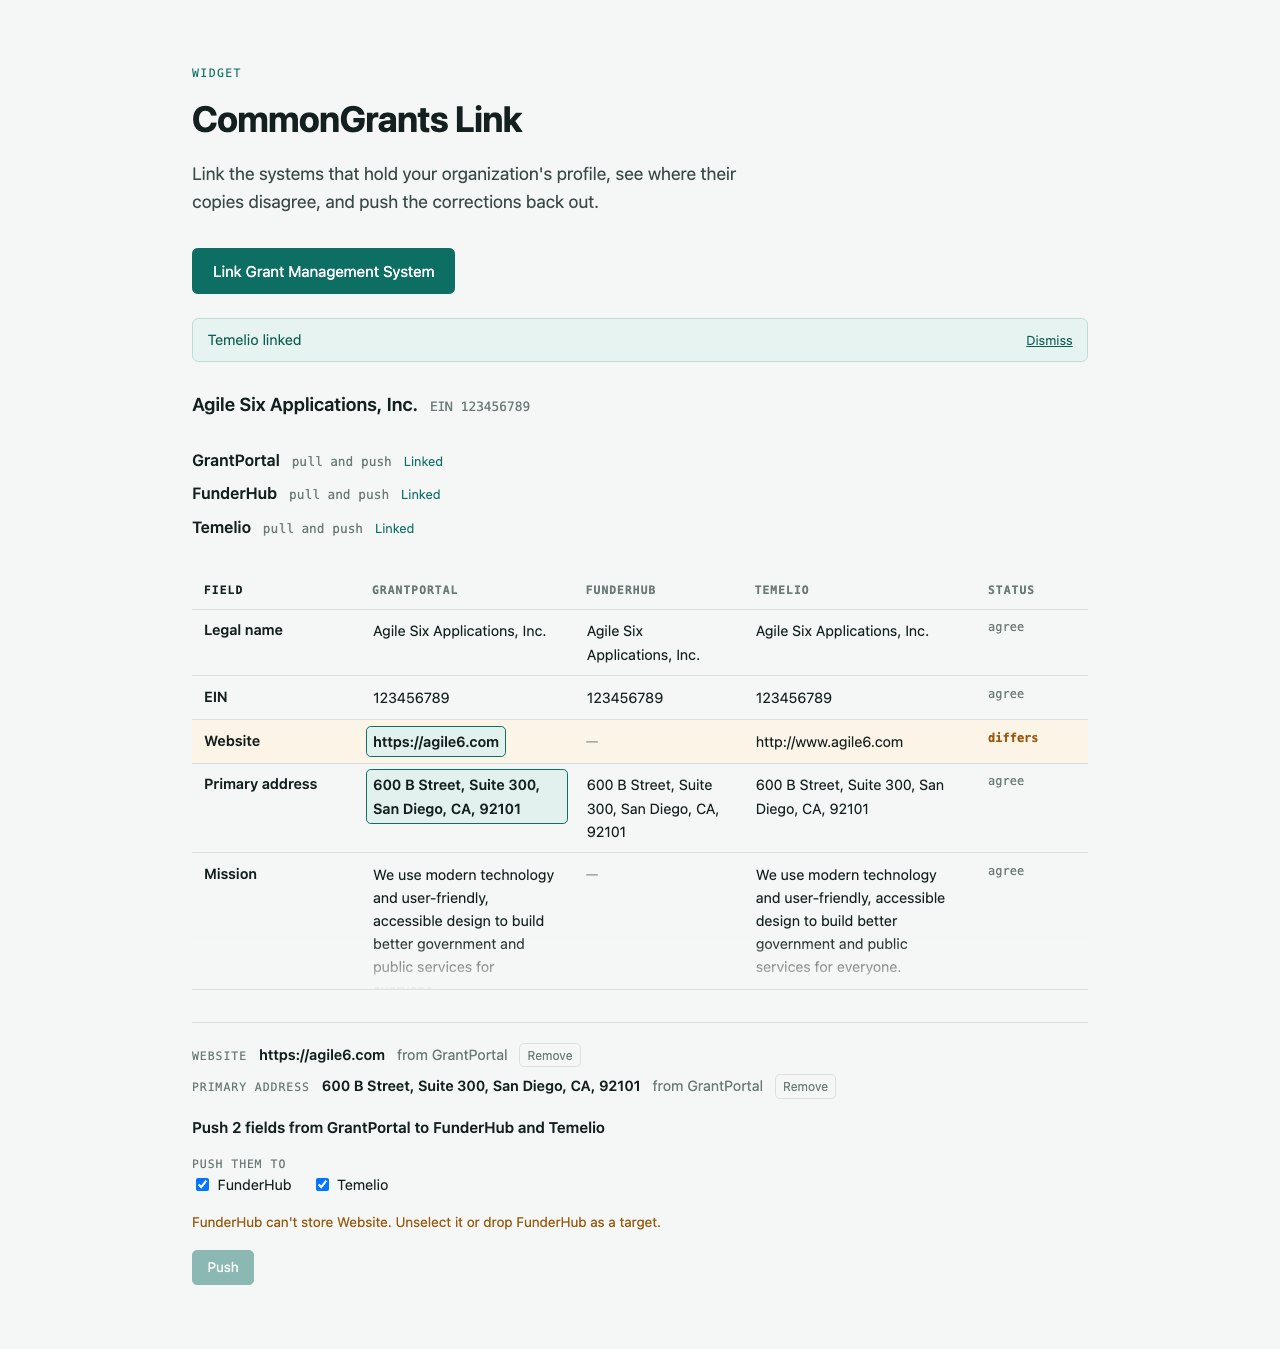
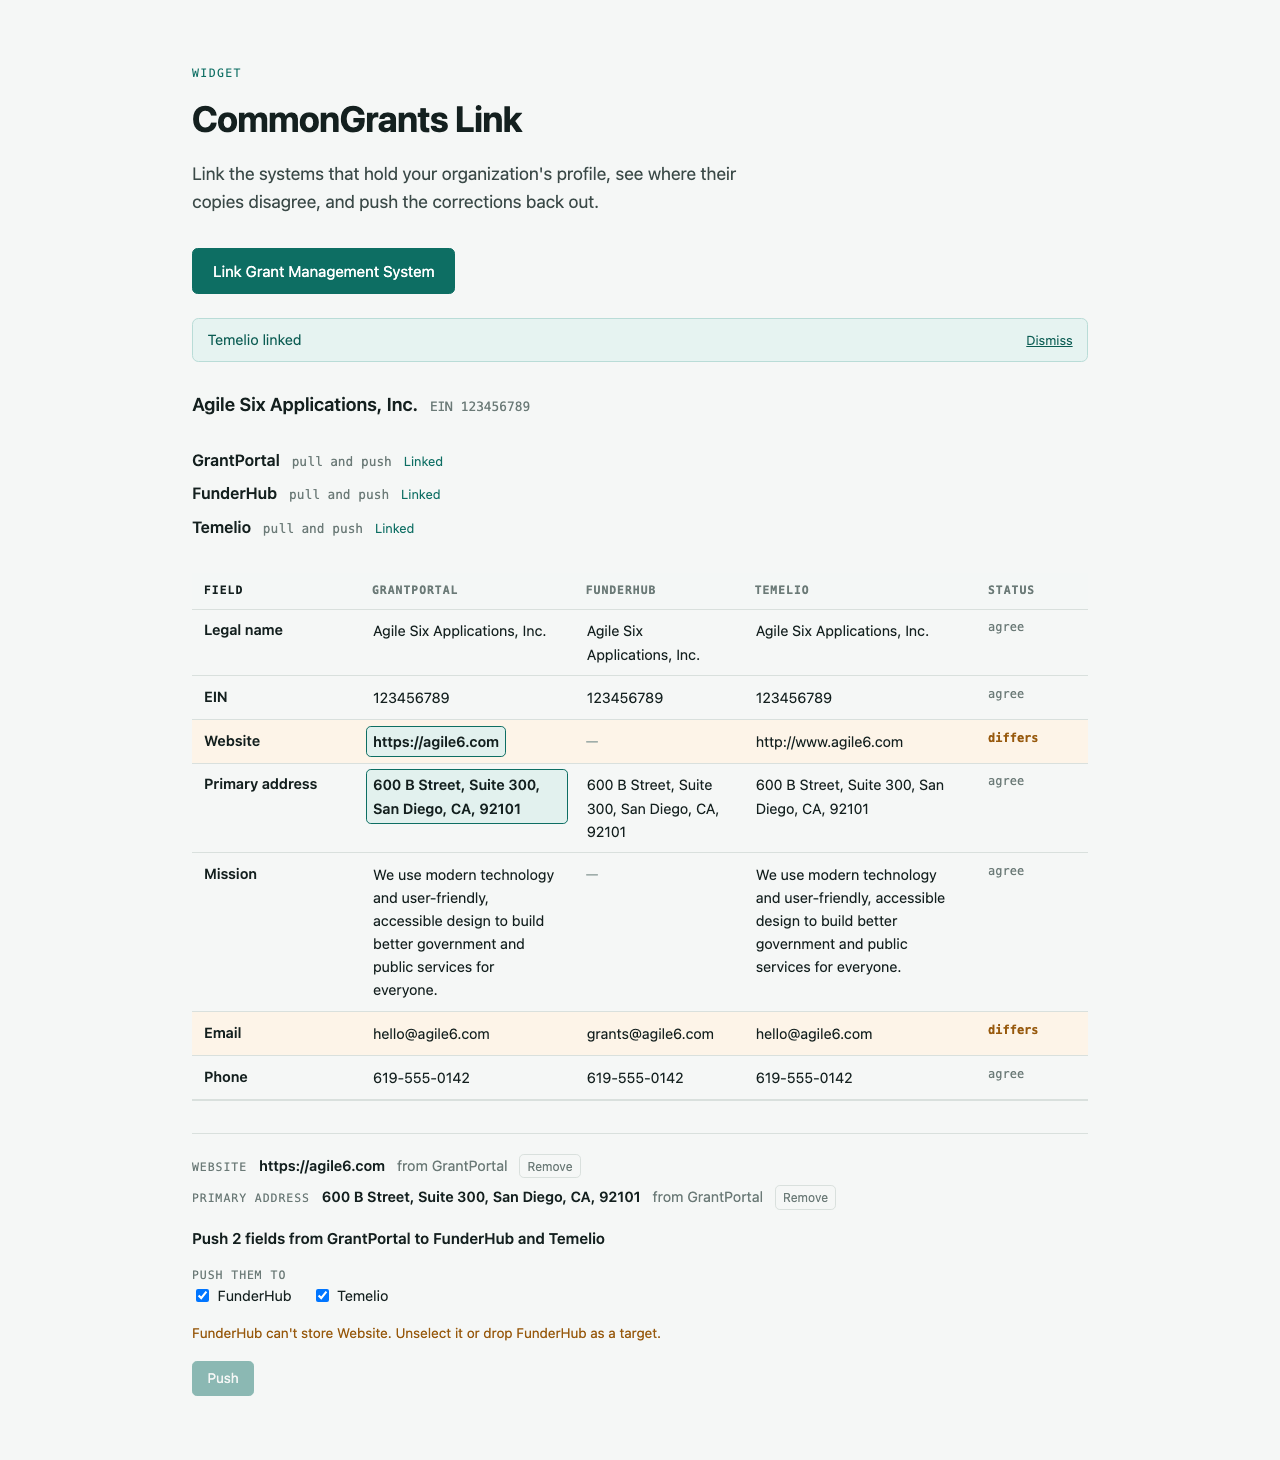
fix(link): give the grid room for seven fields, and drop the scroll fade
The cap goes from 26rem to 36rem, which is enough for the whole comparison as
it stands: seven fields against three systems measure 527px, so the standalone
widget now shows all of them without scrolling and the cap only bites at the
next field added. Embedded it still scrolls, since the overlay cannot grow.

The fade over the bottom edge is gone. It was there so a row the fold cut
through did not read as a rendering fault, and it was driven by
`animation-timeline: scroll()` on the reading that a container with nothing to
scroll has an inactive timeline and falls back to the base style. That is not
what Chromium does with a `both` fill — the fade sat at full opacity over the
last row of a grid that fit perfectly well, which the taller cap made plain.
A grid that fits has nothing to hint at, so the honest fix is not a cleverer
animation.

The embedded `min-height` goes back to 12rem. It is a floor, not the height:
with a short panel the grid already gets everything the column has spare, and
raising it only makes the column outgrow the frame sooner — which brings back
the frame scrolling as well as the grid.

Also unstretches the Link button. A flex column stretches its children across
the cross axis, so making the embedded widget a column had turned it into a
full-width bar; the grid and the panel do want the whole width, a button wants
to be the size of its label.

The standalone spec no longer asserts the grid is scrolling, because at seven
[…]

diff --git a/e2e/specs/widget.spec.ts b/e2e/specs/widget.spec.ts
@@ -313,28 +313,36 @@ test("the three fields #1190-T6 added all reach a vendor's own system from one S
   }
 });
 
-test("the grid scrolls inside a fixed height, keeping its column headings in view", async ({
+test("the grid is capped at a fixed height, and its headings stick when it scrolls", async ({
   page,
 }) => {
   await openAllThree(page);
 
   const scroller = page.getByTestId("grid-scroller");
 
-  // It really is scrolling rather than merely having the style: seven fields
-  // against three systems overflows 26rem, and if it ever stopped doing so
-  // this spec should say it rather than pass on a grid that simply fits.
-  const { clientHeight, scrollHeight } = await scroller.evaluate((el) => ({
-    clientHeight: el.clientHeight,
-    scrollHeight: el.scrollHeight,
-  }));
+  // Seven fields against three systems fit inside the cap today, which is why
+  // this does not assert that the grid is scrolling: it asserts the cap is
+  // real and the grid is inside it. The scrolling case is pinned where it
+  // actually happens — `embedded.spec.ts`, in an overlay that cannot grow.
+  const capped = await scroller.evaluate((el) => {
+    const max = getComputedStyle(el).maxHeight;
 
-  expect(scrollHeight).toBeGreaterThan(clientHeight);
+    return {
+      max,
+      maxPx: Number.parseFloat(max),
+      height: el.clientHeight,
+      overflows: el.scrollHeight > el.clientHeight,
+    };
+  });
 
+  expect(capped.max, "the grid has no fixed height at all").not.toBe("none");
+  expect(capped.height).toBeLessThanOrEqual(capped.maxPx);
+
+  // Scrolled to the bottom whether or not there is anywhere to go. If the
+  // comparison ever outgrows the cap this still holds, and the heading check
+  // below is then doing real work rather than reading an unscrolled table.
   await scroller.evaluate((el) => el.scrollTo(0, el.scrollHeight));
 
-  // Both claims are about geometry inside the scroller, not about the browser
-  // viewport: a row scrolled out of a container is still "visible" to
-  // Playwright, and the whole grid may itself sit below the fold of the page.
   const geometry = await scroller.evaluate((el) => {
     const box = el.getBoundingClientRect();
     const rowOf = (path: string) =>
@@ -343,20 +351,19 @@ test("the grid scrolls inside a fixed height, keeping its column headings in vie
     return {
       top: box.top,
       bottom: box.bottom,
-      scrolled: el.scrollTop,
-      lastRowTop: rowOf("phones.primary.number")?.top,
+      lastRowBottom: rowOf("phones.primary.number")?.bottom,
       headingTop: el.querySelector('[data-testid="source-temelio"]')?.getBoundingClientRect().top,
     };
   });
 
-  // It moved, and the row that was below the fold is now inside the box.
-  expect(geometry.scrolled).toBeGreaterThan(0);
-  expect(geometry.lastRowTop, "no phone row in the grid").toBeDefined();
-  expect(geometry.lastRowTop!).toBeGreaterThanOrEqual(geometry.top);
-  expect(geometry.lastRowTop!).toBeLessThan(geometry.bottom);
+  // The last row is inside the box — reachable, by scrolling or because it
+  // already fits. Geometry rather than visibility: a row scrolled out of a
+  // container is still "visible" to Playwright.
+  expect(geometry.lastRowBottom, "no phone row in the grid").toBeDefined();
+  expect(geometry.lastRowBottom!).toBeLessThanOrEqual(geometry.bottom + 1);
 
-  // And the heading stayed at the top of the box rather than scrolling away
-  // with the rows, which is the point of making it sticky.
+  // And the heading is at the top of the box rather than scrolled away with
+  // the rows, which is the point of making it sticky.
   expect(geometry.headingTop, "no Temelio column heading").toBeDefined();
   expect(Math.abs(geometry.headingTop! - geometry.top)).toBeLessThan(2);
 });

diff --git a/apps/link/src/lib/components/ComparisonGrid.svelte b/apps/link/src/lib/components/ComparisonGrid.svelte
@@ -185,11 +185,10 @@
      losing the column headings on the way down.
   */
   .grid-frame {
-    position: relative;
     border-bottom: 1px solid #d9e0dd;
   }
   .scroller {
-    max-height: 26rem;
+    max-height: 36rem;
     overflow-y: auto;
   }
 
@@ -200,9 +199,13 @@
     flex: 1 1 auto;
 
     /* A floor rather than `0`: the grid should yield space to the panel, but a
-       comparison squeezed to two rows is not one anybody can read. Past this
-       the column outgrows the frame and scrolls — which costs the chrome above,
-       not the grid, and the Sync button is pinned either way. */
+       comparison squeezed to two rows is not one anybody can read.
+
+       Deliberately low. It is a minimum, not the height — with a short panel
+       the grid gets whatever the column has left over, which is more than this.
+       Raising it does not make the usual case taller; it only makes the column
+       outgrow the frame sooner, and the frame scrolling as well as the grid is
+       the thing this layout exists to avoid. */
     min-height: 12rem;
     display: flex;
     flex-direction: column;
@@ -213,36 +216,6 @@
     max-height: none;
   }
 
-  /*
-     A fade over the last visible row, so a row the fold happens to cut through
-     reads as "there is more below" rather than as a rendering fault. Sized in
-     `lh` so it covers about a line of text whatever the row height. Hidden
-     unless the grid actually scrolls — `animation-timeline: scroll()` runs an
-     animation against scroll position, and a container with nothing to scroll
-     has no such timeline, so the fade never appears on a short grid.
-  */
-  .grid-frame::after {
-    content: "";
-    position: absolute;
-    inset: auto 0 0;
-    height: 2lh;
-    background: linear-gradient(to bottom, rgb(245 247 246 / 0%), rgb(245 247 246 / 95%));
-    pointer-events: none;
-  }
-  @supports (animation-timeline: scroll()) {
-    .grid-frame::after {
-      /* Fades itself out as the grid reaches the bottom: once the last row is
-         on screen there is nothing more to hint at. */
-      animation: fade-out-at-end linear both;
-      animation-timeline: scroll(nearest block);
-      animation-range: contain 100% contain 100%;
-    }
-  }
-  @keyframes fade-out-at-end {
-    to {
-      opacity: 0;
-    }
-  }
   table {
     width: 100%;
 
@@ -370,9 +343,6 @@
     }
     .grid-frame {
       border-bottom-color: #2a3736;
-    }
-    .grid-frame::after {
-      background: linear-gradient(to bottom, rgb(15 22 21 / 0%), rgb(15 22 21 / 95%));
     }
     thead th {
       /* The sticky header needs an opaque background in both schemes, or the

diff --git a/apps/link/src/routes/+page.svelte b/apps/link/src/routes/+page.svelte
@@ -1203,6 +1203,12 @@
     margin: 0 0 0.9rem;
     font-size: 1.3rem;
   }
+  /* A flex column stretches its children across the cross axis, which turned
+     this button into a full-width bar. The grid and the panel do want the whole
+     width; a button wants to be the size of its label. */
+  main[data-embedded="true"] .link-system {
+    align-self: flex-start;
+  }
   main[data-embedded="true"] .banner {
     margin-top: 0.9rem;
   }

diff --git a/README.md b/README.md
@@ -36,7 +36,7 @@ flagged. A field one system simply does not have shows as a gap, not a conflict.
 system and it is held to the organization you already chose — matched by EIN, since no two systems
 agree on ids.
 
-![The comparison grid: three systems side by side, with the website and address rows flagged as differing, the mission missing at FunderHub, and more rows below the fold of a scrollable table](docs/screenshots/3-compare.png)
+![The comparison grid: three systems side by side over seven fields, with the website, address and email rows flagged as differing and the mission missing at FunderHub](docs/screenshots/3-compare.png)
 
 **Fix a field everywhere in one click.** Click the value that is right, pick which systems should
 receive it, and push. Each system gets a JSON Merge Patch that changes only that field.
